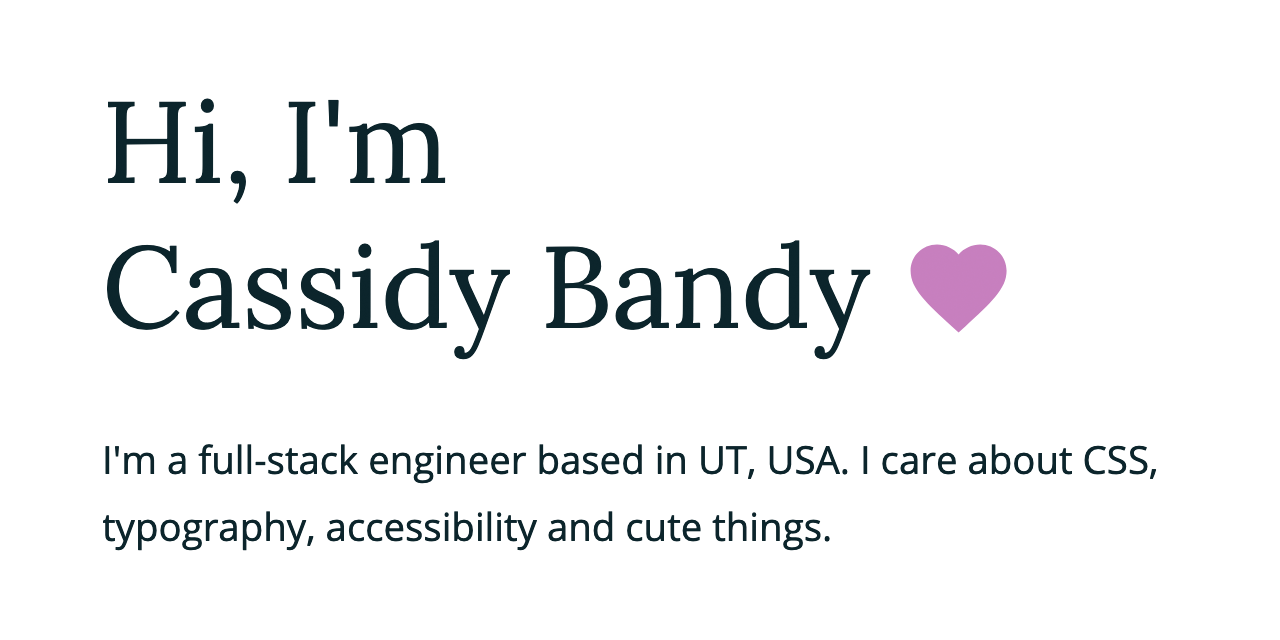
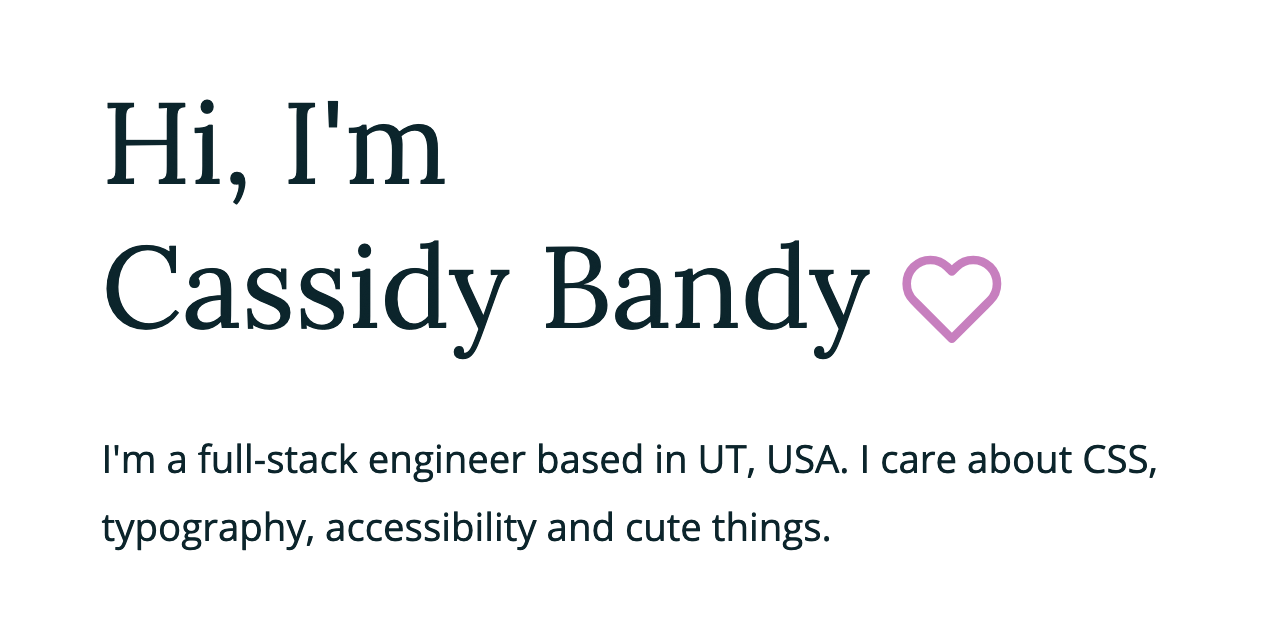
redo logotype

diff --git a/src/components/Logo.svelte b/src/components/Logo.svelte
@@ -1,0 +1,29 @@
+<script lang="ts">
+  export let size = "1em";
+  export let width = size;
+  export let height = size;
+  export let color = "currentColor";
+</script>
+
+<svg
+  xmlns="http://www.w3.org/2000/svg"
+  {width}
+  {height}
+  viewBox="0 0 24 24"
+  fill="none"
+  stroke={color}
+  stroke-width="2"
+  stroke-linecap="round"
+  stroke-linejoin="round"
+  class="logotype"
+>
+  <path
+    d="M20.84 4.61a5.5 5.5 0 0 0-7.78 0L12 5.67l-1.06-1.06a5.5 5.5 0 0 0-7.78 7.78l1.06 1.06L12 21.23l7.78-7.78 1.06-1.06a5.5 5.5 0 0 0 0-7.78z"
+  />
+</svg>
+
+<style>
+  .logotype {
+    vertical-align: middle;
+  }
+</style>

diff --git a/src/routes/_landing.svelte b/src/routes/_landing.svelte
@@ -1,12 +1,13 @@
 <script lang="ts">
-  import { mdiHeart, mdiGithub, mdiOpenInNew } from "@mdi/js";
+  import { mdiGithub, mdiOpenInNew } from "@mdi/js";
   import Icon from "../components/Icon.svelte";
+  import Logo from "../components/Logo.svelte";
 </script>
 
 <section class="landing">
   <h1>
     Hi, I'm <br /> Cassidy Bandy
-    <Icon title="Heart icon" path={mdiHeart} color="var(--color-primary-400)" />
+    <Logo size="0.9em" color="var(--color-primary-400)" />
   </h1>
   <p>
     I'm a full-stack engineer based in UT, USA. I care about CSS, typography,

diff --git a/src/components/Nav.svelte b/src/components/Nav.svelte
@@ -1,7 +1,6 @@
 <script lang="ts">
-	import { mdiHeart } from "@mdi/js";
 	import { stores } from "@sapper/app";
-	import Icon from "../components/Icon.svelte";
+	import Logo from "../components/Logo.svelte";
 
 	const { page } = stores();
 </script>
@@ -9,7 +8,7 @@
 {#if $page.path !== "/"}
 	<nav role="navigation">
 		<a href="." title="Home" class="logo" sapper:prefetch>
-			<Icon path={mdiHeart} size="2em" color="var(--color-primary-400)" />
+			<Logo size="2em" color="var(--color-primary-400)" />
 		</a>
 		<div class="divider" aria-hidden="true" />
 		<ul>

diff --git a/src/template.html b/src/template.html
@@ -10,9 +10,9 @@
 	<link rel="manifest" href="manifest.json" crossorigin="use-credentials">
 
 	<!-- Favicon -->
-	<link rel="icon" type="image/svg+xml" href="logo.svg">
+	<link rel="icon" type="image/svg+xml" href="favicon.svg">
 	<link rel="apple-touch-icon" href="logo-192.png">
-	<link rel="mask-icon" href="logo.svg" color="#bd84bc">
+	<link rel="mask-icon" href="favicon.svg" color="#bd84bc">
 
 	<!-- Fonts	-->
 	<link rel="preconnect" href="https://fonts.gstatic.com">

diff --git a/src/styles/Global.svelte b/src/styles/Global.svelte
@@ -142,12 +142,12 @@
     width: 1em;
     height: 1em;
     background-color: var(--color-primary-400);
-    mask-image: url("/media/heart.svg");
+    mask-image: url("/media/tombstone.svg");
     mask-size: 100%;
     mask-repeat: no-repeat;
     mask-position: 50% 50%;
     position: relative;
-    top: 3px; /* visual balance */
+    top: 0.12em; /* visual balance */
   }
 
   figure {

diff --git a/README.md b/README.md
@@ -18,3 +18,7 @@ npm run dev
 ```
 
 This will install the dependencies needed, then start the development server on localhost:3000.
+
+## Thanks to
+
+- [Feather icons, for logotype](https://feathericons.com/)
